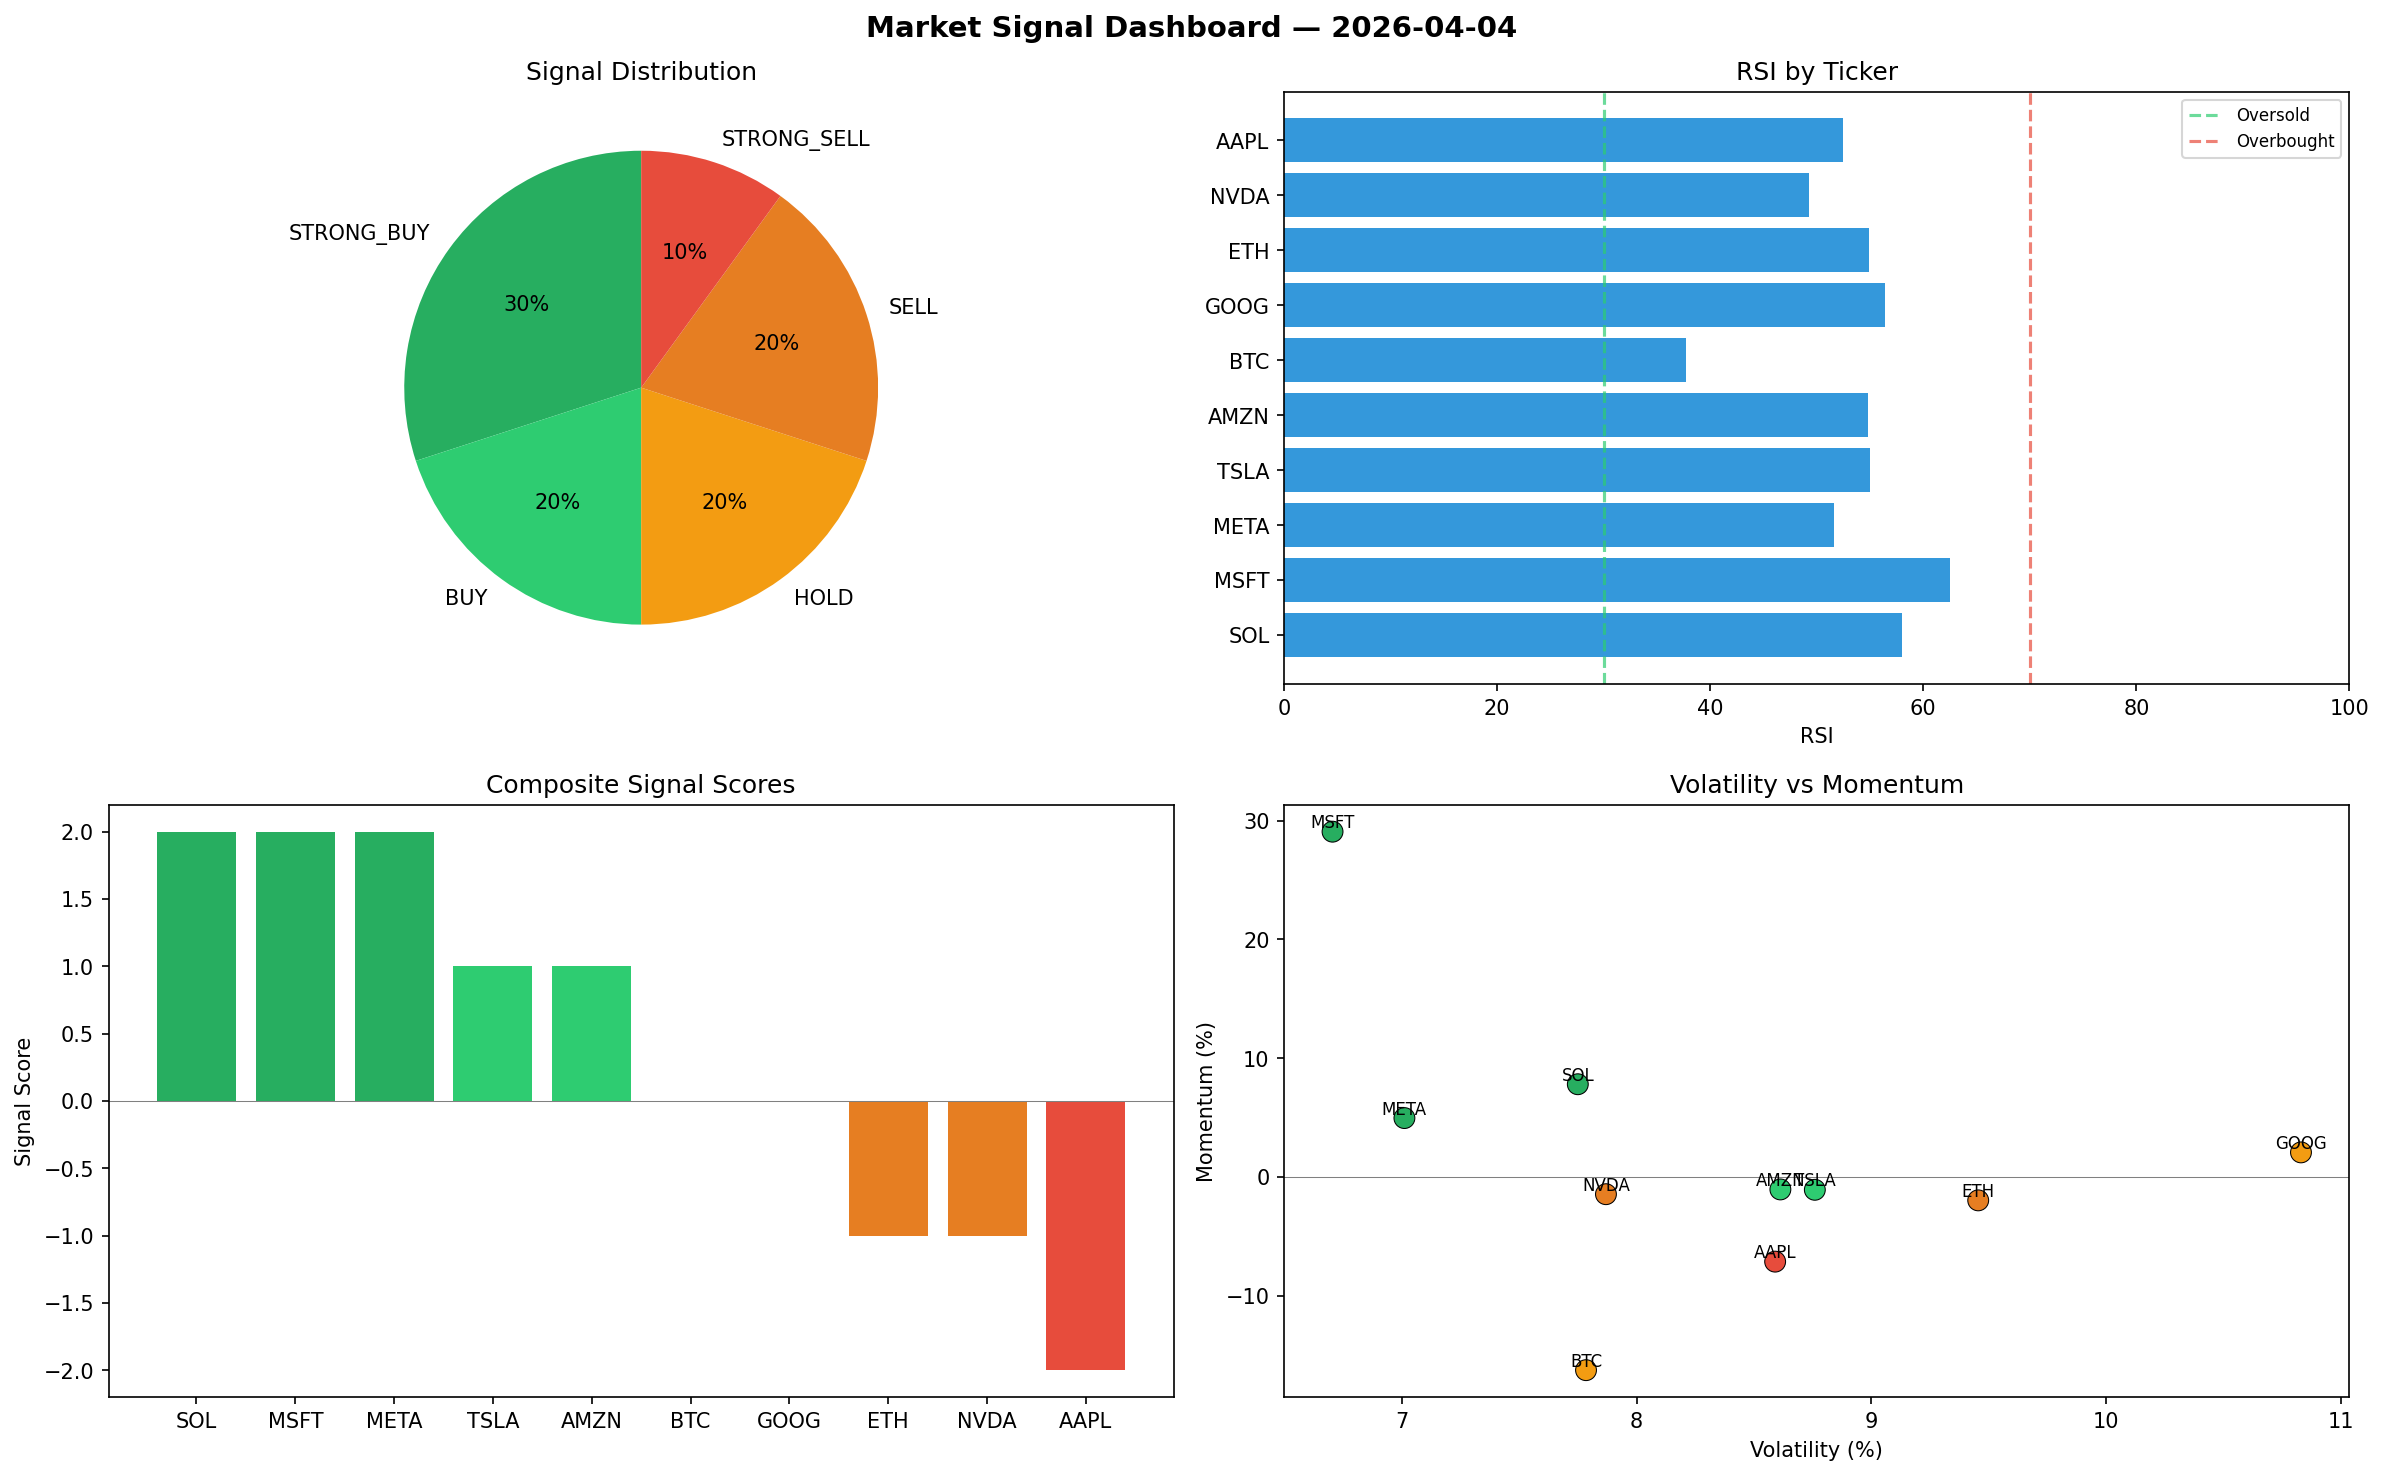
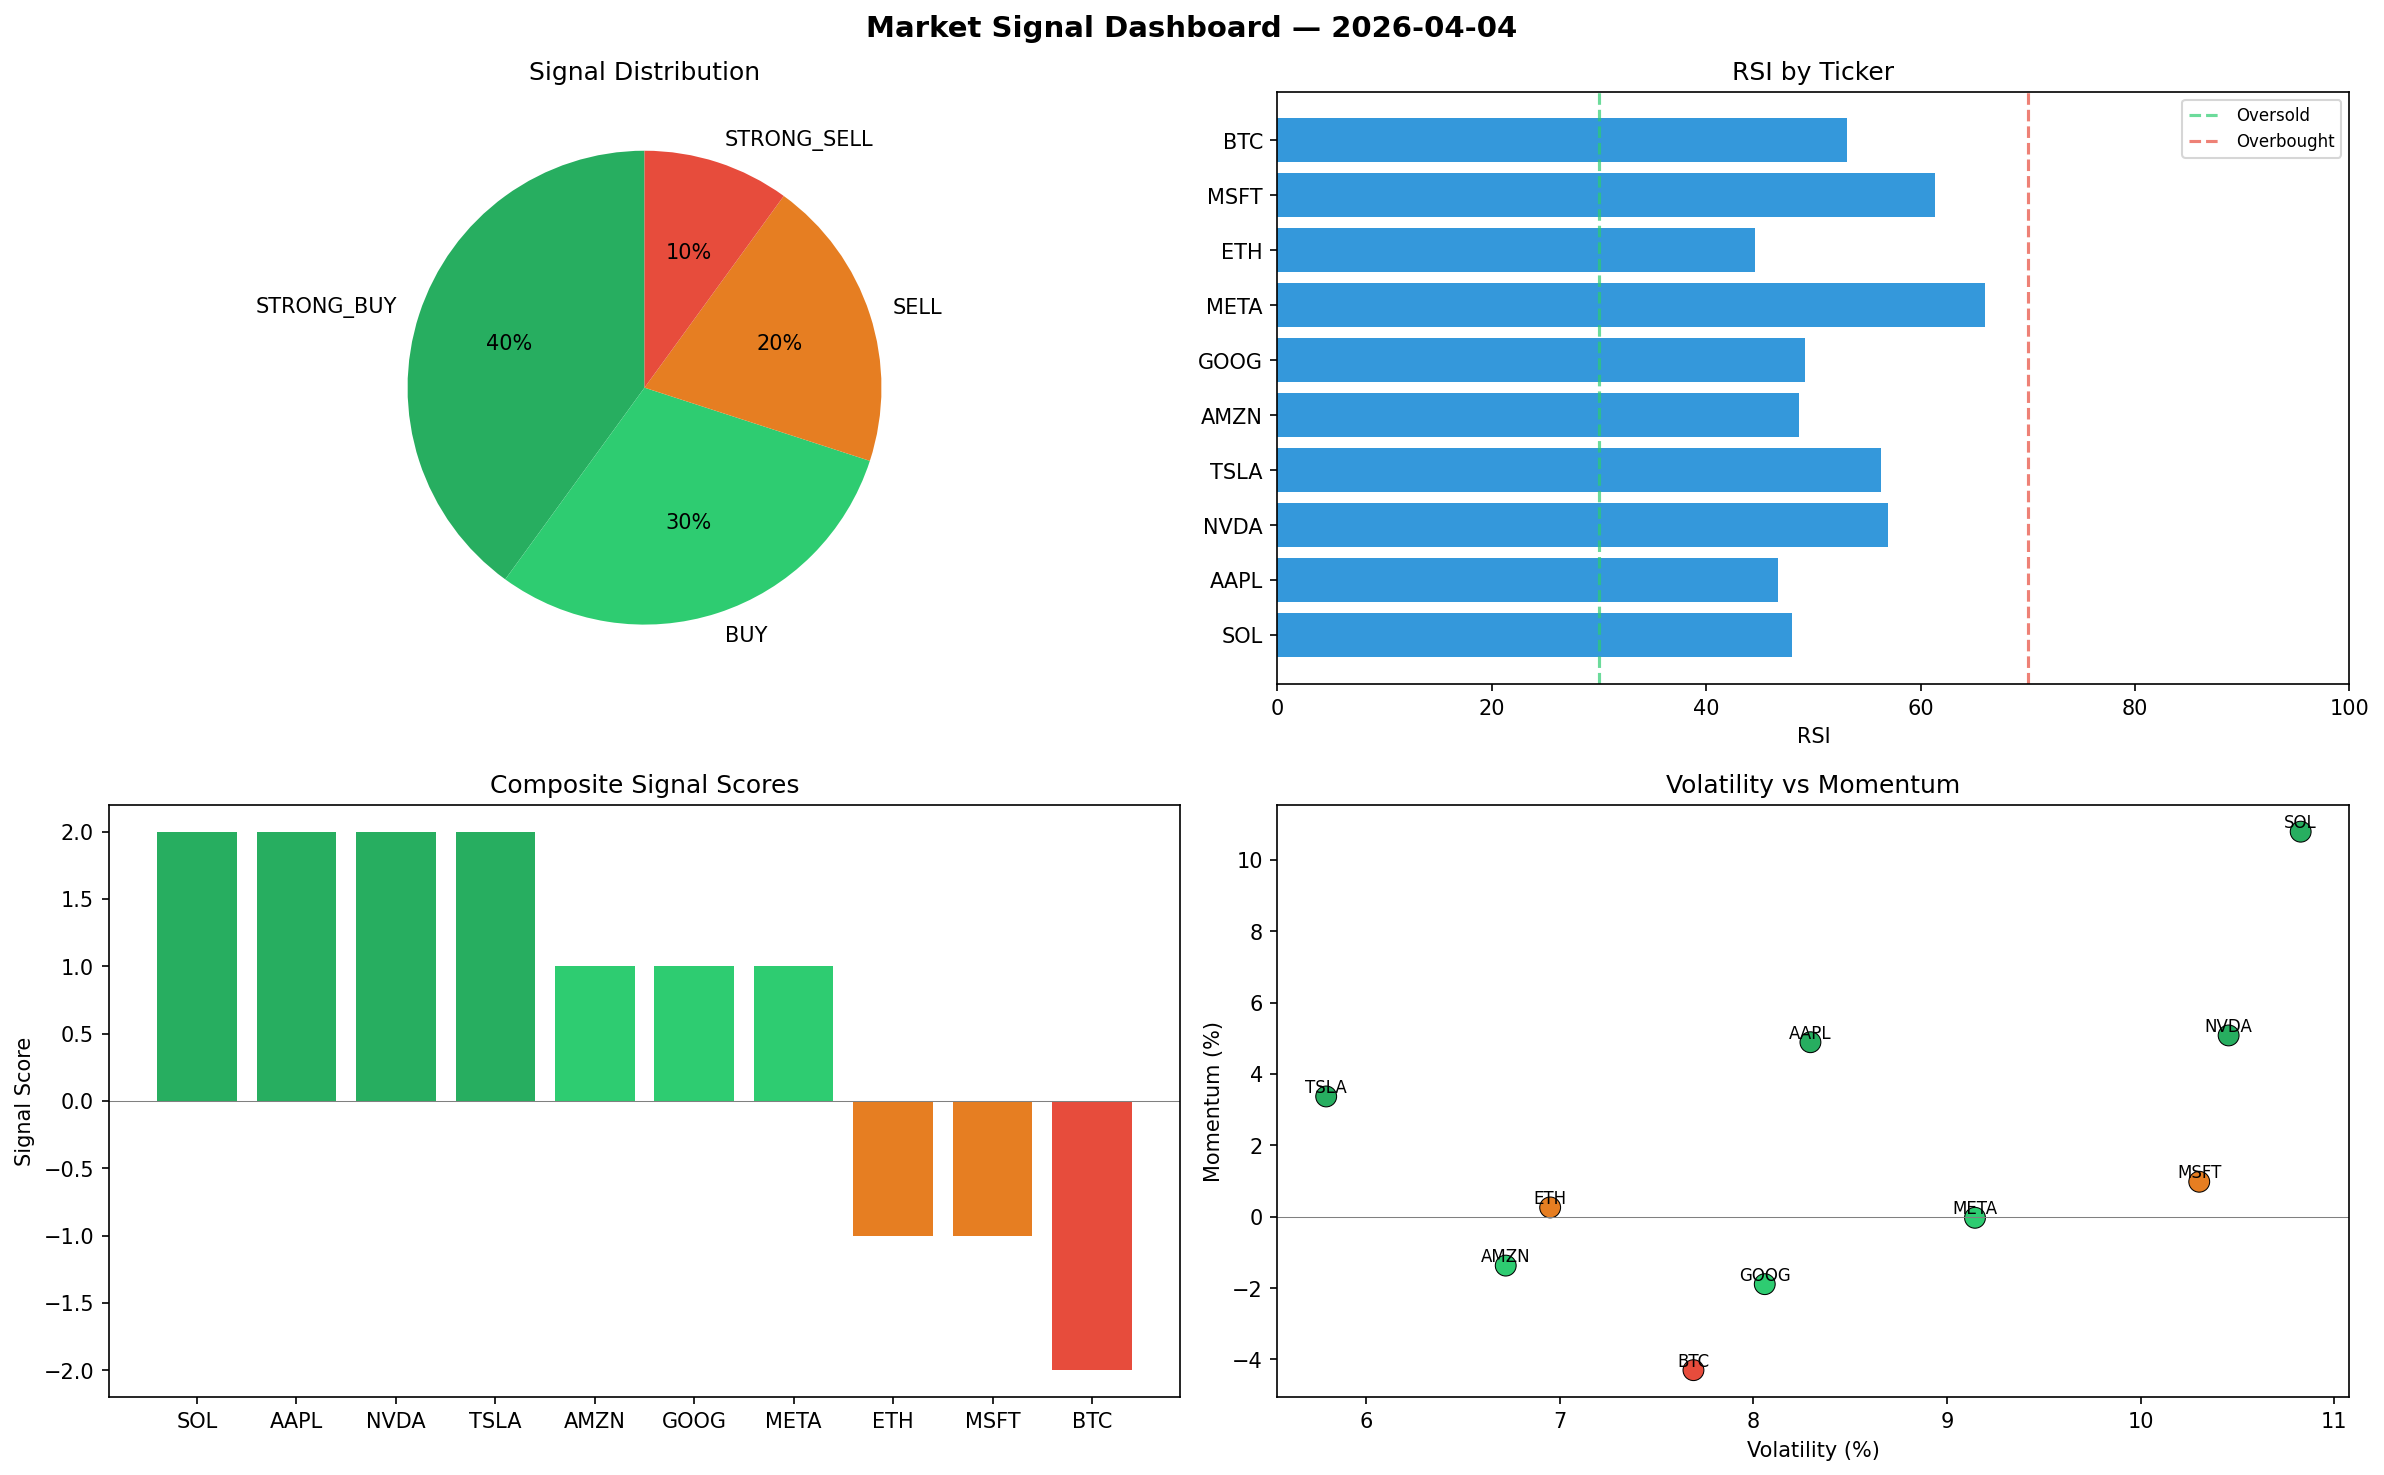
automated-bots: market signals 2026-04-04T20:54

diff --git a/logs/2026-04-04.md b/logs/2026-04-04.md
@@ -1,6 +1,6 @@
 # Market Signal Report — 2026-04-04
 
-**Run ID:** `6784222b57` | **Buy:** 5 | **Sell:** 3 | **Hold:** 2
+**Run ID:** `30001a8ec2` | **Buy:** 7 | **Sell:** 3 | **Hold:** 0
 
 ![Dashboard](2026-04-04_dashboard.png)
 
@@ -8,28 +8,28 @@
 
 | Ticker | Price | Signal | Score | RSI | Momentum | Confidence |
 |--------|-------|--------|-------|-----|----------|------------|
-| SOL | $4102.22 | **STRONG_BUY** | 2 | 57.97 | 0.078 | 0.5 |
-| MSFT | $3989.5 | **STRONG_BUY** | 2 | 62.48 | 0.2907 | 0.5 |
-| META | $2923.34 | **STRONG_BUY** | 2 | 51.63 | 0.0495 | 0.5 |
-| TSLA | $1129.11 | **BUY** | 1 | 54.96 | -0.0109 | 0.25 |
-| AMZN | $1462.76 | **BUY** | 1 | 54.81 | -0.0106 | 0.25 |
-| BTC | $556.13 | **HOLD** | 0 | 37.7 | -0.1628 | 0.0 |
-| GOOG | $4648.47 | **HOLD** | 0 | 56.38 | 0.0206 | 0.0 |
-| ETH | $47.54 | **SELL** | -1 | 54.93 | -0.0198 | 0.25 |
-| NVDA | $254.89 | **SELL** | -1 | 49.24 | -0.0146 | 0.25 |
-| AAPL | $1816.03 | **STRONG_SELL** | -2 | 52.48 | -0.0714 | 0.5 |
+| SOL | $5149.47 | **STRONG_BUY** | 2 | 48.01 | 0.1079 | 0.5 |
+| AAPL | $2078.05 | **STRONG_BUY** | 2 | 46.73 | 0.0489 | 0.5 |
+| NVDA | $4095.46 | **STRONG_BUY** | 2 | 56.96 | 0.0508 | 0.5 |
+| TSLA | $3442.39 | **STRONG_BUY** | 2 | 56.28 | 0.0337 | 0.5 |
+| AMZN | $3621.18 | **BUY** | 1 | 48.65 | -0.0137 | 0.25 |
+| GOOG | $1845.75 | **BUY** | 1 | 49.22 | -0.0189 | 0.25 |
+| META | $2815.3 | **BUY** | 1 | 66.0 | -0.0003 | 0.25 |
+| ETH | $4202.69 | **SELL** | -1 | 44.55 | 0.0026 | 0.25 |
+| MSFT | $3140.59 | **SELL** | -1 | 61.3 | 0.0098 | 0.25 |
+| BTC | $2923.19 | **STRONG_SELL** | -2 | 53.17 | -0.043 | 0.5 |
 
 ## Delta vs Yesterday
 
 | Ticker | Today | Yesterday | Price Change | Signal Changed |
 |--------|-------|-----------|-------------|----------------|
-| SOL | STRONG_BUY | STRONG_BUY | 📈 2503.76% | — |
-| MSFT | STRONG_BUY | SELL | 📈 87.98% | ⚠ YES |
-| META | STRONG_BUY | HOLD | 📈 1463.95% | ⚠ YES |
-| TSLA | BUY | STRONG_BUY | 📉 -75.89% | ⚠ YES |
-| AMZN | BUY | STRONG_SELL | 📈 12.3% | ⚠ YES |
-| BTC | HOLD | HOLD | 📉 -78.56% | — |
-| GOOG | HOLD | SELL | 📈 57.66% | ⚠ YES |
-| ETH | SELL | STRONG_SELL | 📉 -92.16% | ⚠ YES |
-| NVDA | SELL | STRONG_SELL | 📉 -88.58% | ⚠ YES |
-| AAPL | STRONG_SELL | STRONG_SELL | 📉 -32.19% | — |
+| SOL | STRONG_BUY | STRONG_BUY | 📈 3168.47% | — |
+| AAPL | STRONG_BUY | STRONG_SELL | 📉 -22.41% | ⚠ YES |
+| NVDA | STRONG_BUY | STRONG_SELL | 📈 83.45% | ⚠ YES |
+| TSLA | STRONG_BUY | STRONG_BUY | 📉 -26.5% | — |
+| AMZN | BUY | STRONG_SELL | 📈 178.02% | ⚠ YES |
+| GOOG | BUY | SELL | 📉 -37.4% | ⚠ YES |
+| META | BUY | HOLD | 📈 1406.15% | ⚠ YES |
+| ETH | SELL | STRONG_SELL | 📈 593.24% | ⚠ YES |
+| MSFT | SELL | SELL | 📈 47.98% | — |
+| BTC | STRONG_SELL | HOLD | 📈 12.72% | ⚠ YES |
